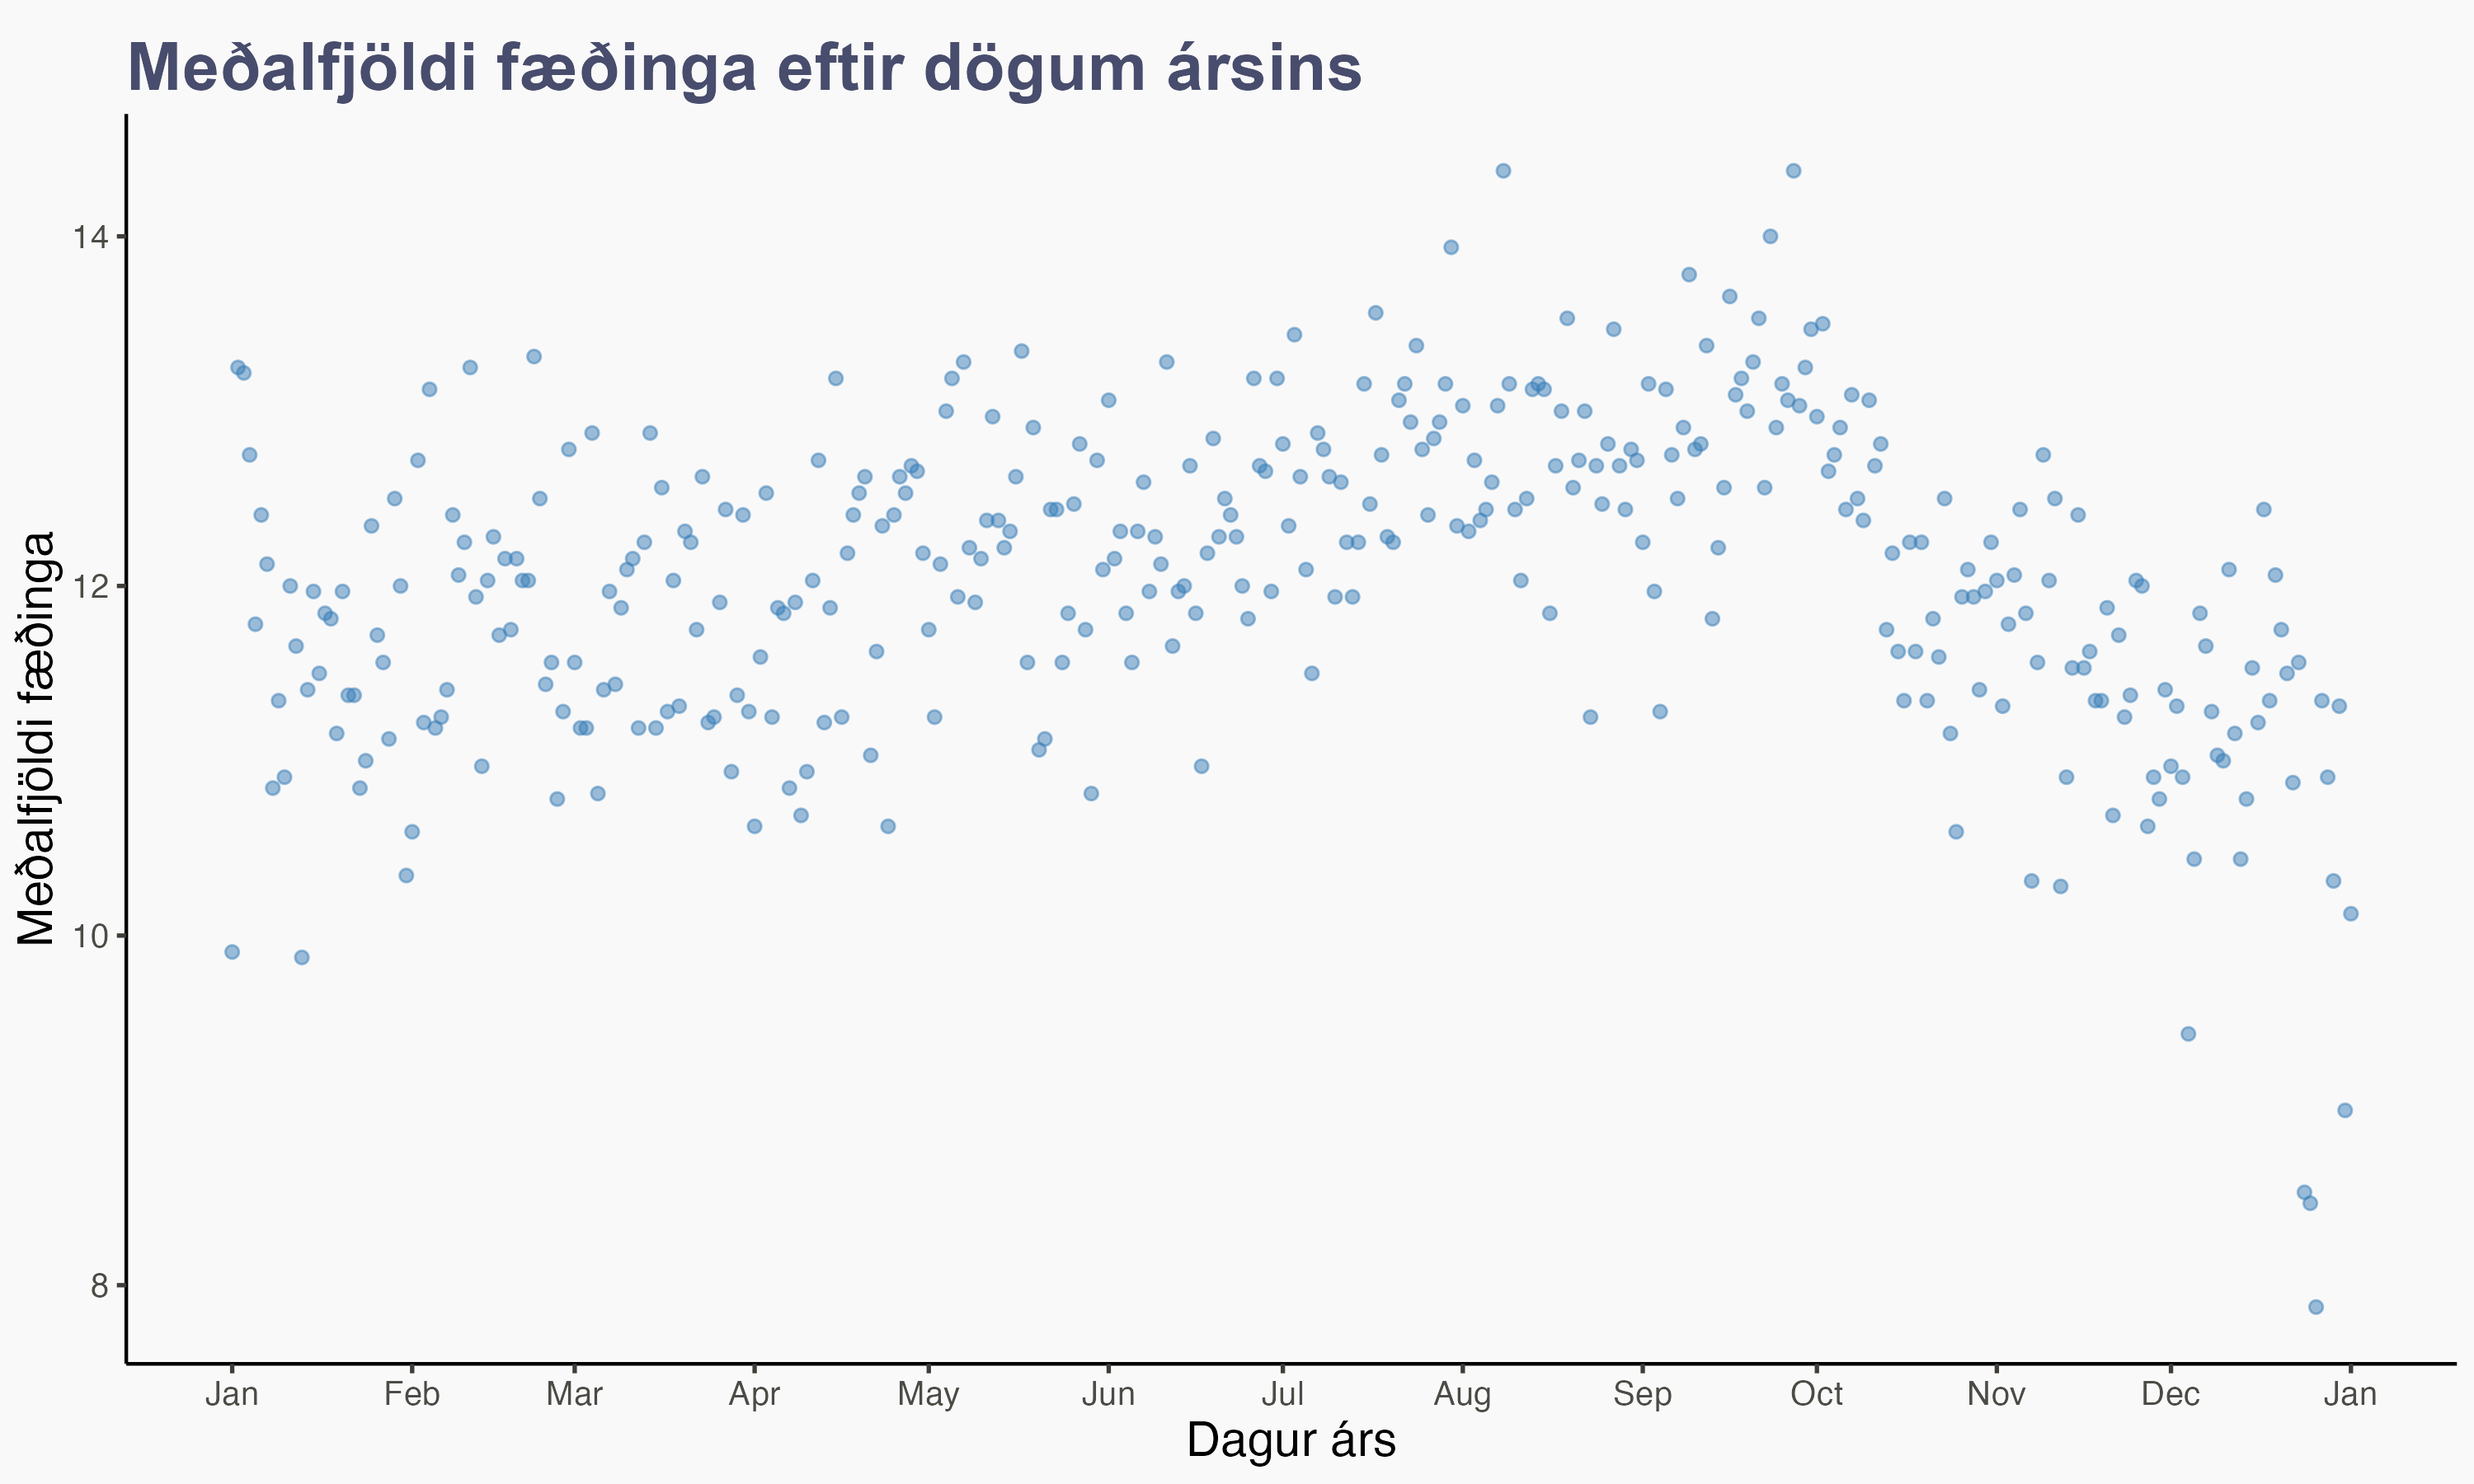
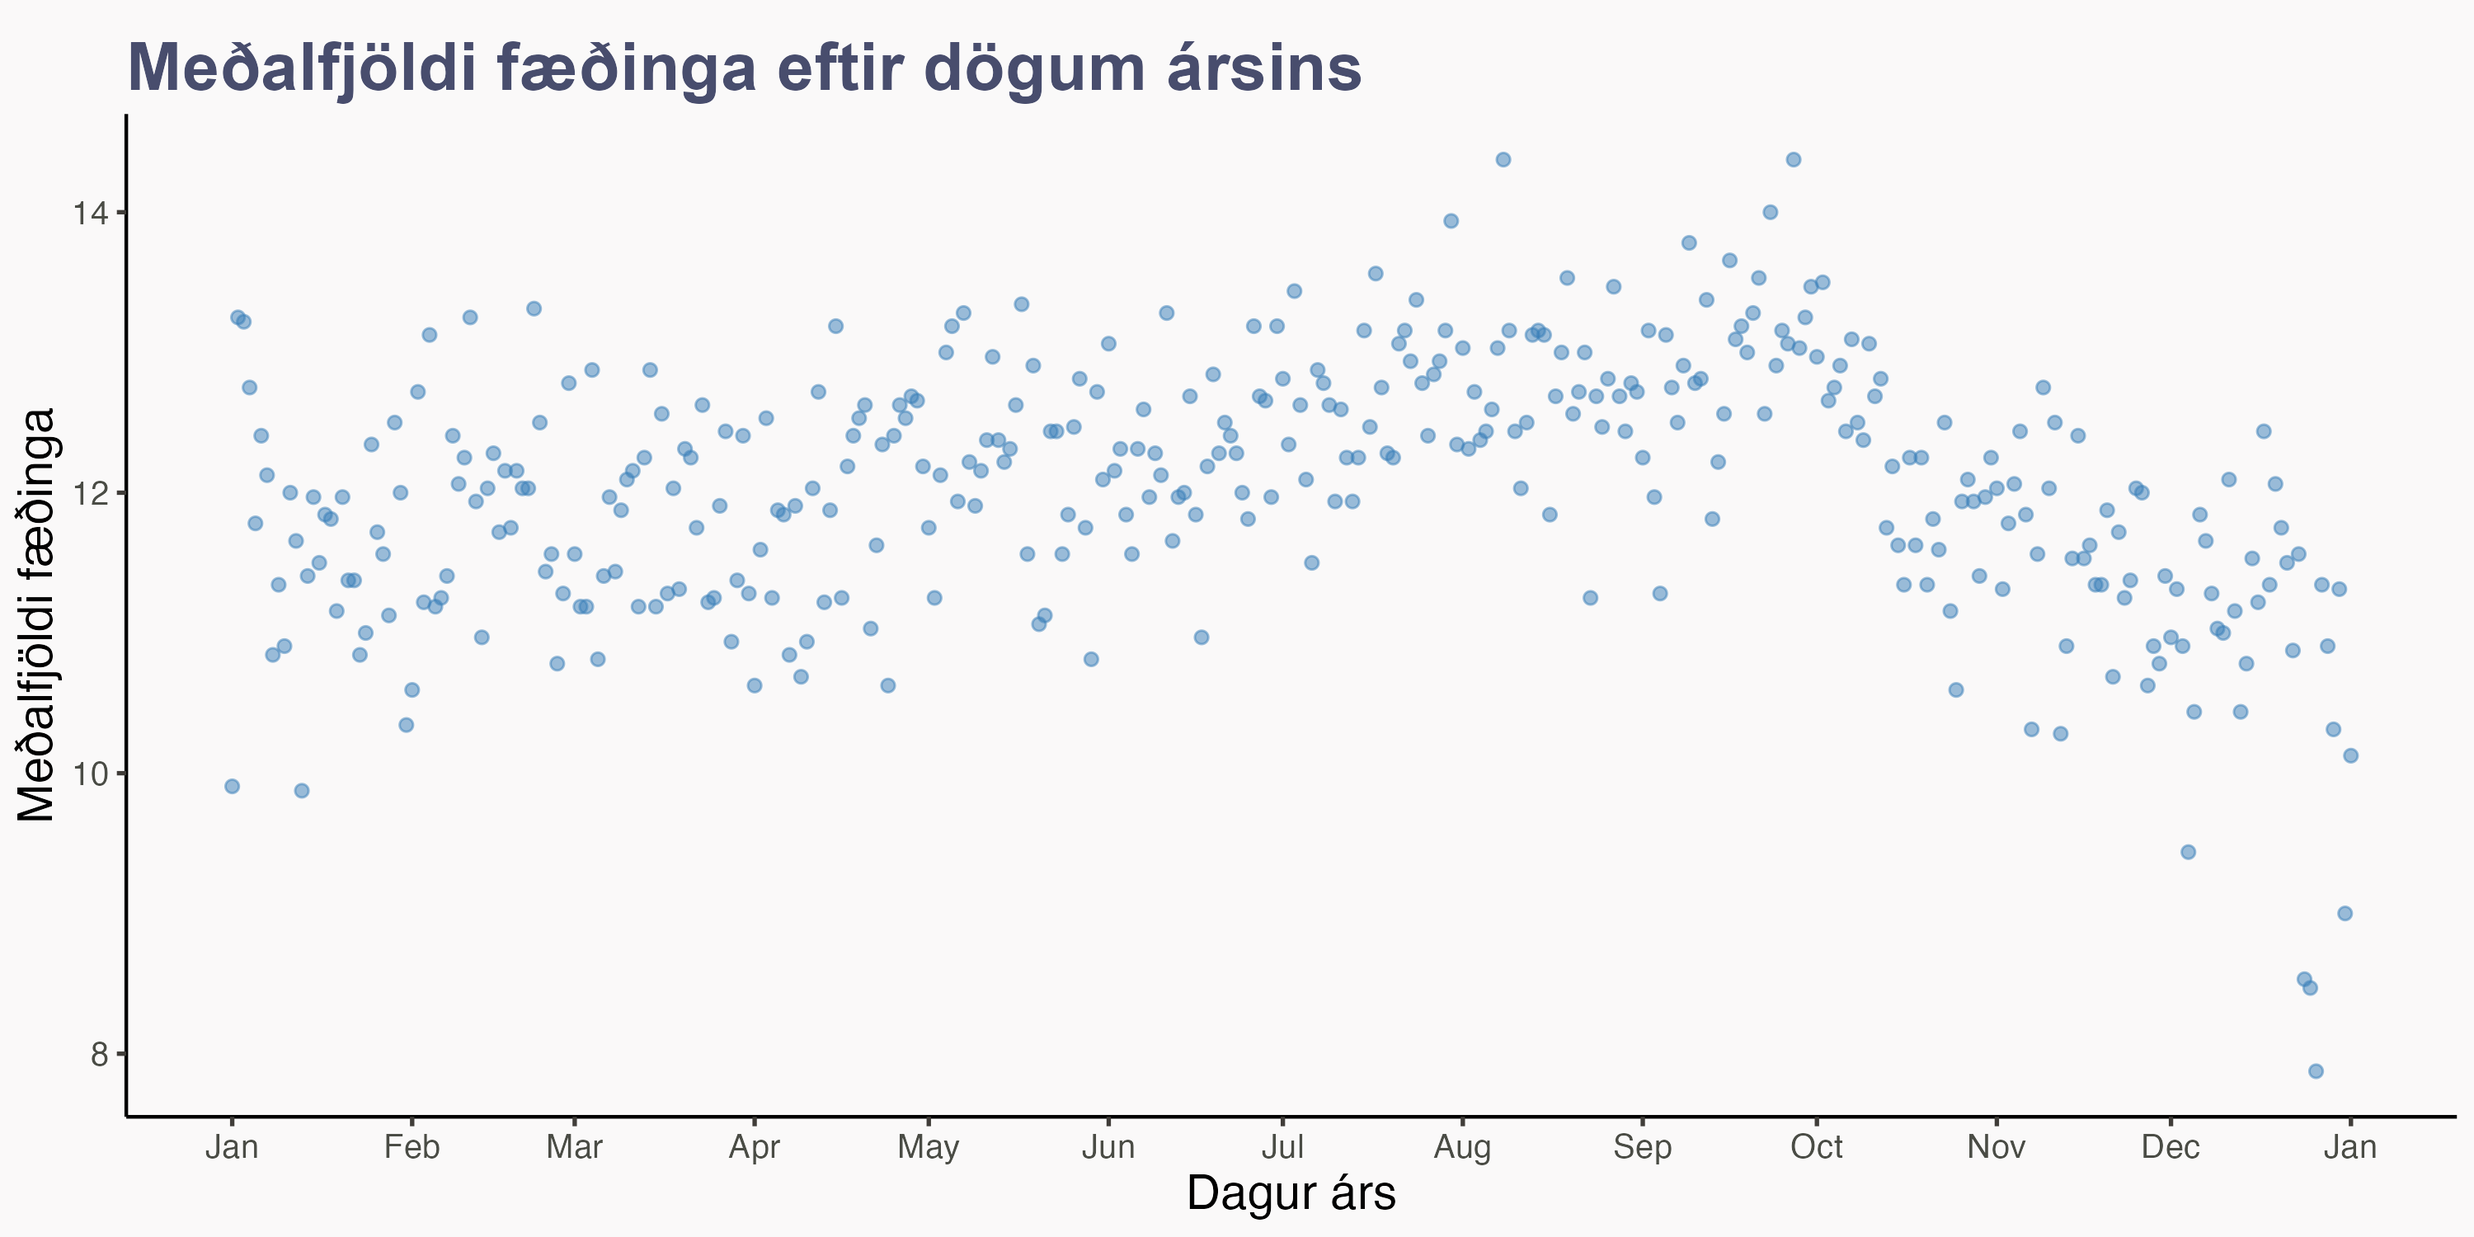
resize figures

diff --git a/Grein/index.html b/Grein/index.html
@@ -126,24 +126,24 @@ div.csl-indent {
 <section id="rýnt-í-gögnin" class="level3">
 <h3 class="anchored" data-anchor-id="rýnt-í-gögnin">Rýnt í gögnin</h3>
 <p>Valkeisaraskurðir eru greiningu okkar mikilvægir vegna þess að þeir stýra áhrifum vikudaga og daga ársins á fæðingartíðni. Tíðni leggangafæðinga á Íslandi (blár ferill) sveiflaðist til á árunum 1970-2020 en langtímahneigðin virðist halla niður á við. Aftur á móti margfaldaðist fjöldi keisaraskurða yfir tímabilið (rauður ferill).</p>
-<p><img src="https://raw.githubusercontent.com/RafaelVias/faedingartidni/main/Figures/p1.png" class="img-fluid" style="width:85.0%"></p>
+<p><img src="https://raw.githubusercontent.com/RafaelVias/faedingartidni/main/Figures/p1.png" class="img-fluid" style="width:100.0%"></p>
 <p>Ef fjöldi keisaraskurða er skoðaður sem hlutfall allra fæðinga má sjá hvernig hlutfallið óx frá 1970 til 2000 og virðist svo hafa náð jafnvægi rétt ofan við efri mörk 10%-15% viðmiðs Alþjóðaheilbrigðismálastofnunarinnar (WHO). Meðaltalið á heimsvísu fyrir tímabilið 2010–2018 var um 21% <span class="citation" data-cites="Betrane005671">(<a href="#ref-Betrane005671" role="doc-biblioref">Betran et al. 2021</a>)</span>.</p>
 <p><img src="https://raw.githubusercontent.com/RafaelVias/faedingartidni/main/Figures/p2.png" class="img-fluid" style="width:100.0%"></p>
 <p>Gögnin sem verða notuð í tímaraðagreininguna hér að neðan voru fengin frá Hagstofu Íslands og sýna fjölda daglegra fæðinga á Íslandi á árunum 1990-2021.</p>
-<p><img src="https://raw.githubusercontent.com/RafaelVias/faedingartidni/main/Figures/p3.png" class="img-fluid" style="width:85.0%"></p>
+<p><img src="https://raw.githubusercontent.com/RafaelVias/faedingartidni/main/Figures/p3.png" class="img-fluid" style="width:100.0%"></p>
 <p>Með því að reikna meðalfjölda fæðinga yfir allt tímabilið fyrir hvern dag ársins má sjá að fæðingartíðni var breytileg eftir tíma ársins.</p>
-<p><img src="https://raw.githubusercontent.com/RafaelVias/faedingartidni/main/Figures/p4.png" class="img-fluid" style="width:85.0%"></p>
+<p><img src="https://raw.githubusercontent.com/RafaelVias/faedingartidni/main/Figures/p4.png" class="img-fluid" style="width:100.0%"></p>
 <p>Þegar meðalfjöldi fæðinga er reiknaður eftir vikudögum sjást skýr vikudagaáhrif. Fleiri börn fæddust á virkum dögum heldur en um helgar, flestar fæðingar voru á þriðjudögum og fæstar á sunnudögum.</p>
-<p><img src="https://raw.githubusercontent.com/RafaelVias/faedingartidni/main/Figures/p5.png" class="img-fluid" style="width:85.0%"></p>
+<p><img src="https://raw.githubusercontent.com/RafaelVias/faedingartidni/main/Figures/p5.png" class="img-fluid" style="width:100.0%"></p>
 <p>Enn fremur, ef meðaltölin eru reiknuð fyrir þrjú aðskilin tímabil má sjá að í seinni tíð hefur valkeisaraskurðum verið stýrt í auknum mæli á þriðjudaga og fimmtudaga.</p>
-<p><img src="https://raw.githubusercontent.com/RafaelVias/faedingartidni/main/Figures/p6.png" class="img-fluid" style="width:85.0%"></p>
+<p><img src="https://raw.githubusercontent.com/RafaelVias/faedingartidni/main/Figures/p6.png" class="img-fluid" style="width:100.0%"></p>
 <hr>
 </section>
 <section id="tölfræðilíkan" class="level3">
 <h3 class="anchored" data-anchor-id="tölfræðilíkan">Tölfræðilíkan</h3>
 <p>Til þess að meta áhrif daga ársins þurfum við að einangra langtíma-, árstíðar-, og vikudagaáhrifin. Við búum því til tölfræðilíkan sem metur væntigildi fjölda fæðinga yfir tímabilið sem summu þessara fjögurra þátta. Tölfræðilíkanið er byggt á <a href="https://github.com/avehtari/casestudies/tree/master/Birthdays">líkani</a> sem búið var til fyrir sambærileg gögn frá Bandaríkjunum.</p>
 <p>Myndin hér að neðan sýnir niðurstöður tölfræðilíkansins sem mátað er að íslensku fæðingargögnunum. Gögnin og niðurstöður líkansins hafa verið sköluð þannig að lóðrétti ásinn sýnir hlutfallsleg frávik frá meðalfjölda fæðinga yfir allt tímabilið (~12). Þannig táknar gildið 110 að fæðingartíðnin var 10% yfir heildarmeðaltalinu, eða um 13 fæðingar. Hins vegar táknar gildið 85 að fæðingartíðnin var 15% undir heildarmeðaltalinu, eða um 10 fæðingar.</p>
-<p><img src="https://raw.githubusercontent.com/RafaelVias/faedingartidni/main/Figures/p12.png" class="img-fluid" style="width:90.0%"></p>
+<p><img src="https://raw.githubusercontent.com/RafaelVias/faedingartidni/main/Figures/p12.png" class="img-fluid" style="width:100.0%"></p>
 <p>Á myndinni efst til vinstri má sjá gögnin (bláir punktar) og væntigildi líkansins (rauður ferill). Væntigildið er summa fjögurra þátta: langtímahneigðar (f1), árstíðaráhrifa (f2), vikudagaáhrifa (f3) og áhrifa daga ársins sem og fljótandi hátíðardaga (f4). Fljótandi hátíðardagar eru þeir hátíðardagar sem lenda ekki á sama degi ársins ár hvert (t.d. páskadagur).</p>
 <p>Myndin efst hægra megin sýnir hvernig langtímahneigðin (rauður ferill) breytist yfir tímabilið. Ferillinn fer úr hámarkinu í upphafi tímabilsins niður í lágmarkið stuttu eftir aldarmótin. Rís svo aftur upp og nær staðbundnu hámarki stuttu eftir bankahrun eða um 2010. Því næst lækkar ferillinn aftur þar til stuttu fyrir heimsfaraldurinn 2020 þegar hann tekur að rísa á ný.</p>
 <p>Vinstri myndin í línu tvö sýnir árstíðaráhrifin (rauður ferill). Þar sést að flestar fæðingar voru að staðaldri í lok september, níu mánuðum eftir jólahátíðina. Fæðingartíðnin féll þá snögglega að lágmarkinu um jólahátíðina og tók svo að rísa aftur.</p>
